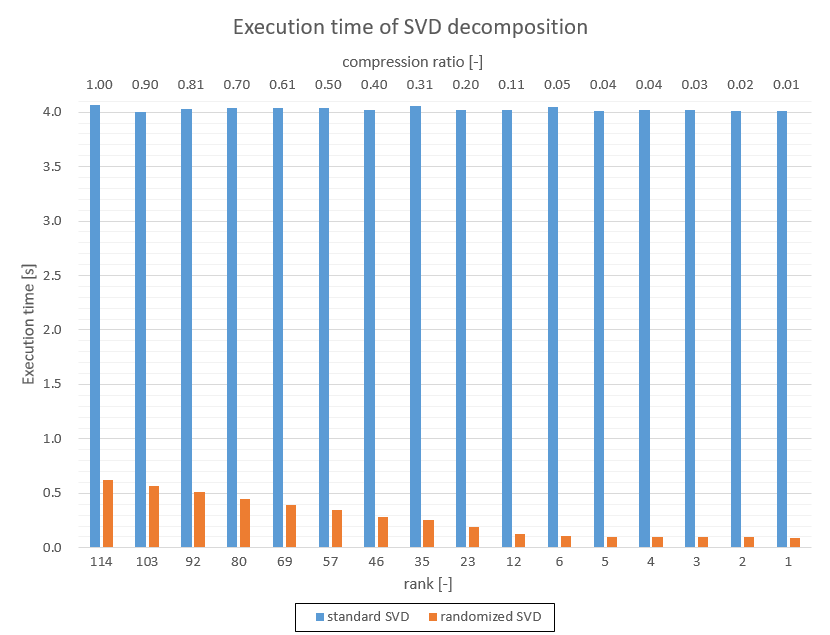
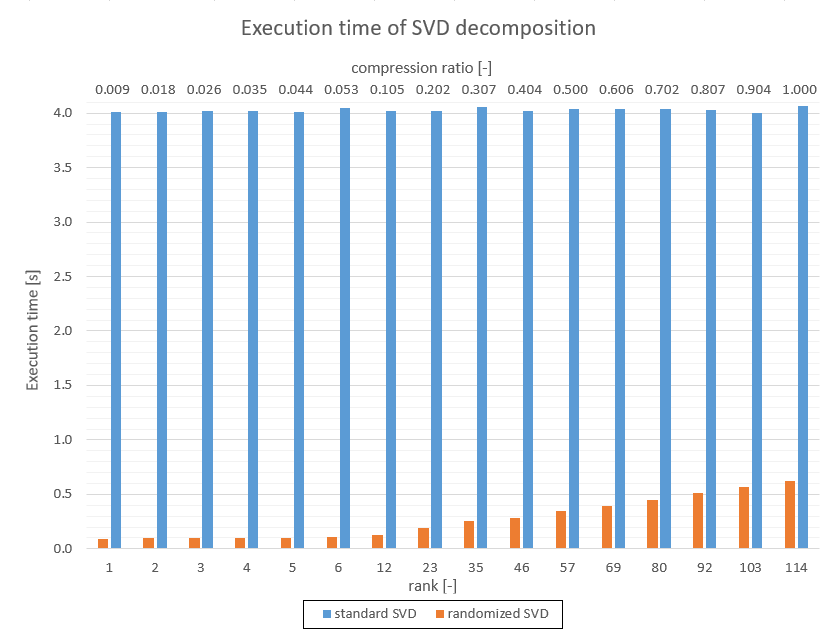
Fix paper according to Reviewer #3's 2nd review

diff --git a/sections/implementation.tex b/sections/implementation.tex
@@ -3,7 +3,7 @@
 
 SVD is applied on matrices. The first thing to do is therefore to assemble an input matrix. Results from the finite element method are scalar, vector or tensor fields represented by discrete values calculated in nodes of the mesh or in integration points on finite elements. As an example, temperature field, vector of nodal displacements, strain tensor evaluated in integration points, etc. can serve. There are two similar sets of results. One is generated by a non-linear algorithms, where several incremental steps are stored and the other is generated by time integration, where results in particular time steps are stored. In order to compress data, an auxiliary matrix $\mtrx{A}$ has to be assembled. The number of rows of the matrix $\mtrx{A}$ is equal to the number of incremental or time steps while the number of columns is equal to the number of points in which the results are stored. Such auxiliary matrix is assembled for each scalar field and for each component of the vector and tensor fields. It means, three matrices corresponding to the displacement in the $x$, $y$ and $z$ directions are assembled for the vector of displacements in three-dimensional problems.
 
-There are two main reasons to store particular results in separate matrices. First, the size of matrices is smaller than the size of a matrix which contains all results and therefore the SVD will be performed faster. Second, the magnitudes of particular fields are very different (the stress tensor components are several order of magnitude larger than the components of the displacement vector) and the data compression algorithm would suppress the fields with small magnitudes. Once the matrices $\mtrx{A}$ are assembled for each field, the compression algorithm can be applied on it. It is purely algebraic procedure and no information about geometry of the mesh is needed.
+There are two main reasons to store particular results in separate matrices. First, the size of matrices is smaller than the size of a matrix which contains all results and therefore SVD will be performed faster. Second, the magnitudes of particular fields are very different (the stress tensor components are several order of magnitude larger than the components of the displacement vector) and the data compression algorithm would suppress the fields with small magnitudes. Once the matrix $\mtrx{A}$ is assembled for each field, the compression algorithm can be applied on it. It is purely algebraic procedure and no information about geometry of the mesh is needed.
 
 Let us assume that the matrix is not empty and is full rank. Then it follows from the formula (\ref{eq:cr-def}) that if $r$ is equal to the rank of matrix $\mtrx{A}$, the compression ratio is always higher than one. In other words the memory consumption of stored decomposition is bigger than the size of the original matrix. To make the compression algorithm applicable, the parameter $r$ must satisfy the condition
 
@@ -16,7 +16,7 @@ r<\frac{m n}{m+n+1}.
 Considering the usual shape of matrix containing FEM results, this inequality is easily satisfiable even for the $r$ being close to the rank of the original matrix as in the typical case the number of nodes or integration points is much higher than the number of analysis steps and therefore $m \ll n$.
 
 \subsection{Algorithm description}
-Once the SVD is calculated, the compression algorithm removes a certain number of singular values and corresponding singular vectors. The remaining singular values and vectors represent the compressed data. There are two strategies that influence the way how to preserve the number of singular values -- resulting size and quality. Each strategy is assigned a control parameter that determines compression ratio or approximation error.
+Once SVD is calculated, the compression algorithm removes a certain number of singular values and corresponding singular vectors. The remaining singular values and vectors represent the compressed data. There are two strategies that influence the way how to preserve the number of singular values -- resulting size and quality. Each strategy is assigned a control parameter that determines compression ratio or approximation error.
 
 \paragraph{Compression ratio}
 If the focus is only on the size of compressed data, the rank $r$ of the approximation matrix can be calculated by the formula
@@ -65,7 +65,7 @@ and using \eqref{eq:nrmsd-def} further to
 Then $\mathit{NRMSD}$ can be used as a quality metric for the compression algorithm because normalization makes it usable for different datasets. Calculation of rank of the approximation matrix is depicted as pseudo-code in Algorithm \ref{alg:rank-calculation}. Algorithm uses the inequality
 
 \begin{equation}
-e > \frac{\sqrt[]{\frac{\sum_{i=r+1}^{k} s_{i}^{2}}{m n}}}{X_{max}-X_{min}},
+e > \frac{\sqrt[]{\frac{\sum_{i=r+1}^{k} s_{i}^{2}}{m n}}}{X_{max}-X_{min}}
 \end{equation}
 
 \noindent
@@ -75,7 +75,7 @@ to test whether the desired rank has been reached; $e$ is $\mathit{NRMSD}$ used 
   \caption{Calculation of rank for approximation matrix from maximum allowed error}\label{rankAlgorithm}
   \label{alg:rank-calculation}
   \begin{algorithmic}[1]
-  	\INPUT maximum allowed error ($e: e > 0$), array with singular values ($S: S.length > 0$), element count ($c: c > 0$), maximum element value ($x_{max}$), minimum element value ($x_{min}: x_{max} \neq x_{min}$)
+  	\INPUT maximum allowed error ($e: e > 0$), array with singular values ($S: S.length > 0$), element count ($c: c > 0$), maximum element value ($x_{max}$), minimum element value ($x_{min}: x_{max} > x_{min}$)
     \OUTPUT rank of resulting matrix
     \Procedure{CalculateRank}{$e, S, c, x_{max}, x_{min}$}
       \State $\mathit{MSE} \gets 0$
@@ -101,4 +101,4 @@ Computational complexity of the exact SVD algorithm is $\mathrm{O}(m^2n)$, where
 \item The randomized SVD algorithm has the same order of algorithmic complexity when full decomposition is required, but yet can significantly reduce execution time. However, the benchmarks are not designed to highlight the benefits of randomized SVD algorithms. The main advantage of the randomized SVD is in the ability to choose the rank of the approximation matrix in advance. In that case only limited number of singular values and corresponding singular vectors are calculated and algorithm performs much faster.
 \end{itemize}
 
-Storage size of the SVD itself can also be optimized. $\mtrx{S}$, being a diagonal matrix, can be stored as single list of singular values $s_{i}$, or can be even multiplied with the matrix of left singular vectors $\mtrx{U}$.
+Storage size of SVD itself can also be optimized. $\mtrx{S}$, being a diagonal matrix, can be stored as single list of singular values $s_{i}$, or can be even multiplied with the matrix of left singular vectors $\mtrx{U}$.

diff --git a/sections/math.tex b/sections/math.tex
@@ -114,9 +114,9 @@ $\mathit{PSNR}$ is most commonly used to measure the quality of reconstruction o
 
 \subsection{Randomized SVD}
 
-There are many algorithms with different approaches to compute singular value decompositions. One approach is based on diagonalization of the matrix which essentially yields the whole decomposition at the same time. The other approach is the use of an iterative algorithm that yields one or several singular values at a time and can be stopped after desired number of singular values and vectors has been computed. Although these algorithms have proven to work very well for relatively small matrices, they are not well suited for using with large data sets. The exact SVD of a $m \times n$ matrix has computational complexity $\mathrm{O}(\mathrm{min}(mn^2, m^2n))$ using the ``big-O'' notation. When applied on large data sets it tends to be very time-consuming. Also, the implementation on modern hardware environment. As these algorithms often need random access to the memory where the input matrix is stored, it can increase communication between different levels in memory hierarchy, which causes higher latency when accessing data. From a numerical linear algebra perspective, an additional problem resulting from increasing matrix sizes is that noise in the data, and propagation of rounding errors, become increasingly problematic.
+There are many algorithms with different approaches to compute singular value decompositions. One approach is based on diagonalization of the matrix which essentially yields the whole decomposition at the same time. The other approach is the use of an iterative algorithm that yields one or several singular values at a time and can be stopped after desired number of singular values and vectors has been computed. Although these algorithms have proven to work very well for relatively small matrices, they are not well suited for using with large data sets. The exact SVD of a $m \times n$ matrix has computational complexity $\mathrm{O}(\mathrm{min}(mn^2, m^2n))$ using the ``big-O'' notation. When applied on large data sets it tends to be very time-consuming. Also, the modern hardware architectures use caches to optimize reading of consecutive memory blocks. As these algorithms often need random access to the memory where the input matrix is stored, it can increase communication between different levels in memory hierarchy, which causes higher latency when accessing data. From a numerical linear algebra perspective, an additional problem resulting from increasing matrix sizes is that noise in the data, and propagation of rounding errors, become increasingly problematic.
 
-In \cite{Candes2011, Woolfe2008, Martinsson2011, Szlam2014}, there are described randomized methods for constructing approximate matrix factorizations which offer significant speedups over classical methods. The particular implementation of the randomized decomposition is based on the algorithm described in \cite{Halko2011}. The authors proposed an algorithm for efficient computation of low-rank approximation to a given matrix. The method uses random sampling to identify a subspace that captures most of the action of a matrix. The input matrix is compressed to this subspace, and deterministic manipulations are then used to obtain the desired low-rank factorization. For a matrix that is too large to ﬁt in fast memory, the randomized techniques require only a constant number of passes over the data, as opposed to $\mathrm{O}(k)$ passes for classical algorithms.
+In \cite{Candes2011, Woolfe2008, Martinsson2011, Szlam2014}, there are described randomized methods for constructing approximate matrix factorizations which offer significant speedups over classical methods. The particular implementation of the randomized decomposition is based on the algorithm described in \cite{Halko2011}. The authors proposed an algorithm for efficient computation of low-rank approximation to a given matrix. The method uses random sampling to identify a subspace that captures most of the action of a matrix. The input matrix is compressed to this subspace, and deterministic manipulations are then used to obtain the desired low-rank factorization. For a matrix that is too large to fit in fast memory, the randomized techniques require only a constant number of passes over the data, as opposed to $\mathrm{O}(k)$ passes for classical algorithms.
 
 The algorithm can be split into two main computational stages. The first stage is to construct a low-dimensional subspace that captures the action of the matrix. To be more formal, this stage is to compute an approximate basis for the range of the input matrix $\mtrx{A}$. This basis matrix $\mtrx{Q}$ is required to have orthonormal columns and
 

diff --git a/sections/introduction.tex b/sections/introduction.tex
@@ -13,7 +13,7 @@ The quality of any compression method depends on the nature of input data. There
 
 Performance is very important aspect for development of the compression algorithm. SVD being very computational intensive, randomized algorithms for SVD decomposition were investigated \cite{Candes2011, Woolfe2008, Martinsson2011, Szlam2014}. Especially, the implementation described in \cite{Halko2011} was used in the compression algorithm for the optimization. Memory consumption and the suitable format of the output data from the compression algorithm also influence overall usability of the resulting work. Efficient data storage is connected with data structure \cite{Ivanyi2012, Ivanyi2014}. This area will be subject of further research.
 
-Although the idea to use SVD for data compression is not new, it is applied in an entirely new area of post-processing of results from the FEM analysis. In contrast with image compression, where the SVD was used in a lossy compression algorithms, the area of post-processing puts great emphasis on the mathematical accuracy of the approximation instead of the human perceptions of visualizations. Also, the storage and dimensions of the input data, and the variance of the values in data, are very different. The main contribution of this paper is therefore to explore this area and to offer a description of an implementation of the algorithm that is successfully used in the post-processing of large data.
+Although the idea to use SVD for data compression is not new, it is applied in an entirely new area of post-processing of results from the FEM analysis. In contrast with image compression, where SVD was used in a lossy compression algorithms, the area of post-processing puts great emphasis on the mathematical accuracy of the approximation instead of the human perceptions of visualizations. Also, the storage and dimensions of the input data, and the variance of the values in data, are very different. The main contribution of this paper is therefore to explore this area and to offer a description of an implementation of the algorithm that is successfully used in the post-processing of large data.
 
 % summary of sections
-The rest of the paper is organized as follows. Section \ref{sec:math} contains mathematical background of the SVD compression (i.e. SVD method itself, its use in low-rank matrix approximation, and description of the randomized SVD method). Implementation of the compression algorithm is presented in Section \ref{sec:implementation}. Section \ref{sec:results} summarizes the results of the benchmarks that were designed to measure quality of the output from the compression algorithm, and also the performance of its the implementation. The paper is concluded in Section \ref{sec:conclusion}.
+The rest of the paper is organized as follows. Section \ref{sec:math} contains mathematical background of the SVD compression (i.e. SVD method itself, its use in low-rank matrix approximation, and description of the randomized SVD method). Implementation of the compression algorithm is presented in Section \ref{sec:implementation}. Section \ref{sec:results} summarizes the results of the benchmarks that were designed to measure quality of the output from the compression algorithm, and also the performance of its implementation. The paper is concluded in Section \ref{sec:conclusion}.

diff --git a/sections/conclusion.tex b/sections/conclusion.tex
@@ -1,7 +1,7 @@
 \section{Conclusion}
 \label{sec:conclusion}
 
-The goal of this paper is to present the use of the SVD in compression of results from the Finite Element Method. Implementation details of the compression algorithm have been provided, and the results of its application on real data have been presented. The implemented algorithm is able to compress arbitrary data using low-rank approximation matrices. When the maximum allowed error was set to $10^{-5}$, the compression ratio was at most 10\% for all tested results. In many cases compression ratio can be even better -- bellow 1\% of the original size. The important property of the compression algorithm is the fact that the approximation error can be set in advance and there is a guarantee that it will not be exceeded.
+The goal of this paper is to present the use of SVD in compression of results from the Finite Element Method. Implementation details of the compression algorithm have been provided, and the results of its application on real data have been presented. The implemented algorithm is able to compress arbitrary data using low-rank approximation matrices. When the maximum allowed error was set to $10^{-5}$, the compression ratio was at most 10\% for all tested results. In many cases compression ratio can be even better -- bellow 1\% of the original size. The important property of the compression algorithm is the fact that the approximation error can be set in advance and there is a guarantee that it will not be exceeded.
 
 The main disadvantage is the computational complexity of the compression algorithm. SVD is a very time-consuming operation. However, this operation is performed only once after FEM analysis is finished and before the post-processing is started. Also, the randomized version of the decomposition algorithm is much faster and can be used if a slight increase of approximation error is tolerated.
 

diff --git a/sections/results.tex b/sections/results.tex
@@ -94,7 +94,7 @@ Besides the error also the execution speed of compression algorithm was measured
 \label{fig:temelin:ExeTime}
 \end{figure}
 
-The memory consumption of compressed results for reactor containment analysis is summarized in Table \ref{tab:mem-consum}. For different values of compression ratio it shows memory size in megabytes. In this benchmark, the compression ratio $c$ is an input parameter to the compression algorithm. As follows from the Equation (\ref{eq:rank-from-comp-ratio}), the value of the compression ratio directly affects the amount of singular values ought to be removed from the SVD. Size factor describes the final outcome of compression when compared to the original size.
+The memory consumption of compressed results for reactor containment analysis is summarized in Table \ref{tab:mem-consum}. For different values of compression ratio it shows memory size in megabytes. In this benchmark, the compression ratio $c$ is an input parameter to the compression algorithm. As follows from the Equation (\ref{eq:rank-from-comp-ratio}), the value of the compression ratio directly affects the amount of singular values ought to be removed from SVD. Size factor describes the final outcome of compression when compared to the original size.
 
 \begin{table}[H]
 \centering

diff --git a/reviews/review2-answers.md b/reviews/review2-answers.md
@@ -1,3 +1,42 @@
 # Reviewer 1
 
 # Reviewer 2
+* Line 155: performance of its the implementation. - delete "the"
+
+The article was removed.
+
+* Line 408: Also, the implementation on modern hardware environment. - the verb is missing
+
+The missing verb was added and the sentence was reformulated as follows:
+
+```Also, the modern hardware architectures use caches to optimize reading of consecutive memory blocks. ...```
+
+* Line 425: For a matrix that is too large to t in fast memory, - something is missing
+
+The lost letters were added:
+
+```For a matrix that is too large to fit in fast memory, ...```
+
+* Line 538: Once the matrices A are -> Once the matrix A is
+
+Corrected.
+
+* Line 572: Once the SVD -> Once SVD
+
+The article was removed.
+
+* Line 649: delete "," in eq. (18)
+
+The comma was removed.
+
+* Line 684: xmax != xmin -> xmax > xmin
+
+The condition was refined. `>` sign was substituted.
+
+* Line 716: Storage size of the SVD -> Storage size of SVD; Line 1251: use of the SVD -> use of SVD
+
+The articles were removed in those sentences as well as in few other cases where the article was used inproperly in connection with SVD.
+
+* Figure 13: in other graphs x axis is in increasing order for both - rank and compression ratio
+
+The direction of horizontal axis was reversed in Figure 13.
